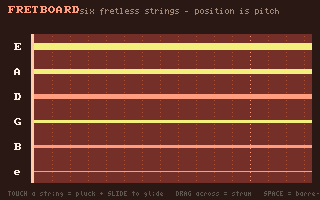
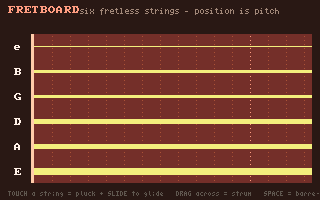
fretboard: same tab-order flip, plus a description that matches the cart
The flip: str_y(s) inverts the index, the neck-slab edges swap, and the two
comments that asserted the old choice are fixed (one literally read 'low E
(string 0) at the top'). str_at() needed nothing, it already scanned all six by
distance. String thickness and the SNAME labels are index-driven, so the thick
low E moved down with its own label: the side now reads e B G D A E.

Verified by voice event rather than by ear (measuring pitch off the wav caught
the boot chord's tail): a click on the top row emits midi 64, the bottom row
midi 40.

The de:meta description also claimed three things the code does not do, which
matters because it feeds index.json and the compendium:

  - 'hold 1-6 for an open-chord shape (Em G C D Am A)' does not exist; the only
    key the cart reads is SPACE.
  - 'frets quantize the position so you land in tune' is backwards. pitch_at()
    is continuous and note_pitch() immediately overrides the one rounded note
    number, so it is fretless, as the docblock two lines below already said.
    The ticks on the neck are cosmetic semitone marks.
  - 'INSTR_GUITAR' is wrong, it is INSTR_PD, which is precisely why a held note
    glides both ways, so the wrong engine name also hid why the cart works.

Rewritten to keep what was true (the chord as finger geometry, the monochord
lineage, the moveable barre, the iPhone 5-touch cap) and to state the tab order.

diff --git a/tools/carts/fretboard.c b/tools/carts/fretboard.c
@@ -12,7 +12,7 @@
     "chord-voicing"
   ],
   "lineage": "Multi-string extension of the monochord probe — same PD-oscillator/glide/position=pitch feel, scaled to six strings so finger geometry directly voices chords (vertical rake = barre, angled fingers = voicings).",
-  "description": "A multitouch fretted string instrument — TAP a string at a fret to pluck it, tap several strings at once and you get a CHORD: the chord is your finger GEOMETRY, not a button you press. The payoff of the monochord experiment, and the honest version of pedalboard's chord buttons (here you actually form the shape). Six strings, standard tuning E A D G B e; frets quantize the position so you land in tune. TAP a string @ a fret = pluck it; DRAG across the strings = a strum (each sounds as you cross it); slide along a string = re-fret. SPACE strums all six at their held frets. DESKTOP crutch (you can't multitouch a mouse): hold 1-6 for an open-chord shape (Em G C D Am A), then SPACE or drag to strum it — on a phone you fret the shape by hand instead. INSTR_GUITAR. A full six-finger chord + strum exceeds the iPhone 5-touch cap, so it leans desktop/iPad.",
+  "description": "A multitouch FRETLESS string instrument: touch a string and your finger's POSITION along it is the pitch, so a chord is your finger GEOMETRY, not a button you press. The payoff of the monochord experiment, and the honest version of pedalboard's chord buttons (here you actually form the shape). Six strings, standard tuning E A D G B e, drawn in TAB ORDER (high e on top, low E at the bottom). The faint ticks are semitone marks (the bright one is the 12th, an octave up) and nothing snaps to them, so intonation is on you: a straight vertical rake is the open tuning moved up the neck (a moveable barre), angled fingers voice everything else. TOUCH a string = pluck it there; SLIDE along it = glide the pitch, both ways; DRAG across the strings = a strum (each sounds as the finger crosses it). SPACE strums all six at the MOUSE's position, a barre you can slide, which is the whole desktop crutch since you can't multitouch a mouse. One ringing INSTR_PD voice per string (Casio phase-distortion, an oscillator, so a held note really does glide). A full six-finger chord plus a strum exceeds the iPhone 5-touch cap, so it leans desktop/iPad.",
   "todo": [
     "ui-audit?: the bottom control-hint line runs past the right edge (clipped) — low-confidence, may be intentional; see action-plan \"control-hint overflow\"."
   ]
@@ -34,7 +34,8 @@ de:meta */
 //                              can slide; move the mouse and tap SPACE to hear it move.
 //   • the faint ticks         = semitone marks (the bright one = the 12th, an octave up).
 //
-// Standard tuning E A D G B e. INSTR_GUITAR-on-PD voicing glides both ways. Two-handed
+// Standard tuning E A D G B e. The voice is INSTR_PD (phase distortion), an oscillator, so a
+// held note glides both ways: nothing here quantizes to a fret. Two-handed
 // chording wants a touchscreen; on desktop the mouse is one finger + the SPACE barre.
 
 #include "studio.h"
@@ -48,13 +49,16 @@ de:meta */
 static const int   OPEN[NSTR]  = { 40, 45, 50, 55, 59, 64 };   // E2 A2 D3 G3 B3 E4
 static const char *SNAME[NSTR] = { "E", "A", "D", "G", "B", "e" };
 
-// neck geometry — strings run left→right; low E (string 0) at the top
+// neck geometry — strings run left→right in TAB ORDER: low E (string 0) at the BOTTOM, high e on
+// top (higher pitch, higher on the page — what every guitarist reads). Drawing index 0 on top
+// mirrors the neck and reads as a LEFT-handed guitar facing you. Only the row mapping flips; the
+// string arrays (OPEN/SNAME/vH/…) and the low→high strum order stay index-ordered.
 #define NUT_X    34
 #define NECK_W   (SCREEN_W - NUT_X - 8)
 #define PX_SEMI  (NECK_W / MAXSEMI)                 // pixels per semitone along a string
 #define STR_TOP  46
 #define STR_GAP  ((SCREEN_H - STR_TOP - 26) / (NSTR - 1))
-static int   str_y(int s)   { return STR_TOP + s * STR_GAP; }
+static int   str_y(int s)   { return STR_TOP + (NSTR - 1 - s) * STR_GAP; }   // string index → screen row (inverted: tab order)
 static float pitch_at(int tx, int s) {
     float off = clamp((float)(tx - NUT_X) / (float)PX_SEMI, 0.0f, (float)MAXSEMI);
     return (float)OPEN[s] + off;
@@ -138,7 +142,7 @@ void draw(void) {
     print("six fretless strings - position is pitch", 80, 8, CLR_MEDIUM_GREY);
     font(FONT_NORMAL);
 
-    int y0 = str_y(0), y1 = str_y(NSTR - 1);
+    int y0 = str_y(NSTR - 1), y1 = str_y(0);   // top edge = high e, bottom edge = low E
 
     // the neck + faint semitone marks (the octave brighter)
     rectfill(NUT_X, y0 - 12, NECK_W, y1 - y0 + 24, CLR_DARK_BROWN);
@@ -149,7 +153,7 @@ void draw(void) {
     }
     rectfill(NUT_X - 3, y0 - 12, 3, y1 - y0 + 24, CLR_LIGHT_PEACH);   // the nut
 
-    // strings — low E (thick) at top; glow as they ring, brightest on the pluck attack
+    // strings — low E (thick) at the BOTTOM, high e on top (tab order); glow as they ring, brightest on the pluck attack
     for (int s = 0; s < NSTR; s++) {
         int y = str_y(s);
         flash[s] *= 0.85f;
